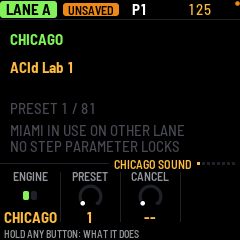
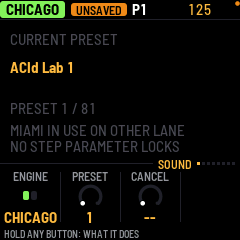
fix(ui): identify bass slots by their committed engine

diff --git a/firmware/src/app/ui.c b/firmware/src/app/ui.c
@@ -105,7 +105,24 @@ static const uint16_t PART_COL[NPARTS] = {RGB(255, 150, 40), RGB(255, 72, 64), R
                                           RGB(214, 120, 255)};
 static const char *const PART_N[NPARTS] = {"909", "808", "303A", "303B", "BREAK"};
 /* Lane labels: PART_N except BREAK → BRK (4 chars). Beats a second 5-pointer table. */
-static const char *part_s(int i) { return i == PART_BRK ? "BRK" : PART_N[i]; }
+#if X0X_BASS_PRESET_PREVIEW
+static const char *bass_display_name(int bank,int other,int voice)
+{
+    if(bank==other) return bank?(voice?"MIAMI B":"MIAMI A"):(voice?"CHICAGO B":"CHICAGO A");
+    return bank?"MIAMI":"CHICAGO";
+}
+#endif
+static const char *part_display(int part)
+{
+#if X0X_BASS_PRESET_PREVIEW
+    if(part==PART_303A || part==PART_303B) {
+        int voice=part-PART_303A;
+        return bass_display_name(engine_bass_bank(voice),engine_bass_bank(1-voice),voice);
+    }
+#endif
+    return PART_N[part];
+}
+static const char *part_s(int i) { return i == PART_BRK ? "BRK" : part_display(i); }
 
 /* overlays drawn over the main area */
 enum { O_NONE, O_LIST, O_ASK };
@@ -1358,7 +1375,7 @@ static void open_list_of_pages(void)
     if (ui.view == V_SEQ)
         put_s(put_s(list_title, PART_N[ui.part]), " SEQ");
     else
-        put_s(list_title, ui.view == V_PART ? PART_N[ui.part] : VIEW_N[ui.view]);
+        put_s(list_title, ui.view == V_PART ? part_display(ui.part) : VIEW_N[ui.view]);
     ui.list_sel = ui.list_top = 0;
     while (list_skip(ui.list_sel))
         ui.list_sel++;
@@ -3844,10 +3861,7 @@ static UI_DRAW void draw_header(void)
     }
 #endif
     else if (part_view()) {                           /* the part chip, then where we are */
-        const char *part_label=PART_N[ui.part];
-#if X0X_BASS_PRESET_PREVIEW
-        if(is_303()) part_label=bidx()?"LANE B":"LANE A";
-#endif
+        const char *part_label=part_display(ui.part);
         int32_t w = tw(&FONT_B, part_label) + 12;
         box(0, 1, w, 17, part_col());
         cv_text(6, vc(&FONT_B, 1, 17), &FONT_B, part_label, C_BLACK);
@@ -3999,7 +4013,7 @@ static UI_DRAW void draw_303(int band, int gen)
     if(ui.view==V_PART && cur_page()==0) {
         int bank=engine_bass_bank(b), preset=engine_bass_preset_index(b);
         if(!band) {
-            cv_text(10,12,&FONT_B,BENGINE_N[bank],col);
+            cv_text(10,12,&FONT_S,"CURRENT PRESET",C_DIM);
             cv_text(10,40,&FONT_B,preset<0?"SELECT PRESET":factory_preset_name(bank,preset),C_HI);
             if(preset>=0 && engine_bass_preset_edited(b)) cv_text(148,12,&FONT_S,"EDITED",C_AMB);
         } else {
@@ -5034,12 +5048,13 @@ static void knob_tag(char *t)
         put_s(put_s(t, "PARTS: "), PART_N[ui.mixsel]);
     else if (g == GR_PAT)
         put_s(put_s(put_i(put_s(t, "P"), seq.ppat[ui.part] + 1), " "), ti);
-    else if (g == GR_KIT || g == GR_SOUND)
-        put_s(put_s(put_s(t,
+    else if (g == GR_KIT || g == GR_SOUND) {
 #if X0X_BASS_PRESET_PREVIEW
-            is_303()?BENGINE_N[engine_bass_bank(bidx())]:
+        if(is_303()) put_s(t,ti);
+        else
 #endif
-            PART_N[ui.part]), " "), ti);
+        put_s(put_s(put_s(t,part_display(ui.part)), " "), ti);
+    }
     else
         put_s(t, ti);
     {   /* a section over several pages (same name): which of them, "BD (1/2)" */

diff --git a/tests/host/bass_presets_live_test.c b/tests/host/bass_presets_live_test.c
@@ -108,6 +108,9 @@ int main(int argc,char **argv)
     CHECK(X0X_BASS_PRESET_PREVIEW==1);request_apply(0,0,0);
     CHECK(bass_preset_decode(0,0,engine_bass_bank_param,expected)==0);
     CHECK(!memcmp(expected,proj.sound.v[T_303][0],32));CHECK(!engine_bass_preset_edited(0));
+    CHECK(!strcmp(part_display(PART_303A),"CHICAGO A"));CHECK(!strcmp(part_display(PART_303B),"CHICAGO B"));
+    CHECK(tw(&FONT_B,part_display(PART_303A))+12<120);
+    CHECK(!strcmp(bass_display_name(1,1,0),"MIAMI A"));CHECK(!strcmp(bass_display_name(1,1,1),"MIAMI B"));
     physical_browse(0);if(argc>1)picture(argv[1],"chicago-acid-lab-1",0);
     writes=store_writes;CHECK(project_save()==-9);CHECK(store_writes==writes);
     engine_bass_wheel_owners(1);CHECK(engine_bass_select_preset(0,0,2,&proj.sound)==0);
@@ -118,9 +121,13 @@ int main(int argc,char **argv)
 #if X0X_DEV_WOBBLE
     ui.part=PART_303B;ui.view=V_PART;build_pages();*page_of(V_PART)=0;
     pref_set(PR(R_BENGINE,0,1,0),1);CHECK(engine_bass_requested_bank(1)==1);CHECK(engine_bass_bank(1)==0);
+    CHECK(!strcmp(part_display(PART_303B),"CHICAGO B")); /* pending != committed */
     CHECK(!engine_bass_bank_available(0,1));CHECK(engine_bass_select_preset(0,1,0,&proj.sound)==-2);
     audio_block();ui_input_only();CHECK(engine_bass_bank(1)==1);CHECK(engine_nparams(T_303,1)==23);
     CHECK(bass_preset_decode(1,0,engine_bass_bank_param,expected)==0);CHECK(!memcmp(expected,proj.sound.v[T_303][1],32));
+    CHECK(!strcmp(part_display(PART_303A),"CHICAGO"));CHECK(!strcmp(part_display(PART_303B),"MIAMI"));
+    CHECK(engine_bass_select_preset(1,0,0,&proj.sound)==0);CHECK(!strcmp(part_display(PART_303B),"MIAMI"));
+    engine_bass_cancel_preset(1);audio_block();CHECK(!strcmp(part_display(PART_303B),"MIAMI"));
     physical_browse(1);if(argc>1)picture(argv[1],"miami-16th-cutz",1);
     if(argc>1)picture(argv[1],"miami-occupied",0);
     pref_set(PR(R_ENG,T_303,1,W_CARRIER_LEVEL),50);audio_block();CHECK(engine_bass_preset_edited(1));edited_pixels(1);

diff --git a/docs/proposals/bass-real-presets-20261026/README.md b/docs/proposals/bass-real-presets-20261026/README.md
@@ -6,7 +6,7 @@ Review-only. `X0X_BASS_PRESET_PREVIEW` defaults OFF. No native qualification, ta
 
 The PNGs come from the actual host UI after the actual audio engine applies complete mapped factory cells. Chicago `Acid Lab 1` and Miami `16th Cutz` retain verified existing names/data. Native approximations are not imported KORG engines or sound-equivalence claims. Chicago's 81 and Miami's 30 rows retain their mixed Factory2/heuristic provenance. No offline zero-volume workaround is applied.
 
-On SOUND, knob 1 requests a backend on the SAME selected lane, applying its first named preset. Knob 2 and PRESETS browse one real name at a time in that requested backend's bank. Current actual engine/name and lane identity remain separate. While waiting, the current sound stays visible and the lower card names the pending latest choice and reason. Knob 3 cancels it. EDITED appears beside the actual engine when its cell differs from the named preset. Parameter pages rebuild when the actual backend changes. Single-context Miami occupancy/reservations and missing builds are explicitly unavailable.
+On SOUND, knob 1 requests a backend on the SAME selected lane, applying its first named preset. Knob 2 and PRESETS browse one real name at a time in that requested backend's bank. The primary label is the actual committed engine, with a stable A/B suffix only when both slots use the same engine; internal lane/MIDI routing remains unchanged. The redundant engine heading is removed from the current-preset card. While waiting, the current sound stays visible and the lower card names the pending latest choice and reason. Knob 3 cancels it. EDITED appears beside the actual engine when its cell differs from the named preset. Parameter pages rebuild when the actual backend changes. Single-context Miami occupancy/reservations and missing builds are explicitly unavailable.
 
 ## Voice-scoped live application
 
@@ -29,9 +29,11 @@ Full engine-tagged persistence, legacy unknown-identity admission, full sound-sn
 ## Evidence
 
 - Pure mapper commit4623193: 2,835 WBL0 /3,964 WBL1 checks; independent extra245/257 endpoint/admission checks passed. All111 ROM rows/names match canonical JSON.
-- `sh tests/host/bass_presets_live_test.sh "$PWD/docs/proposals/bass-real-presets-20261026"`: 189 WBL0 /1,516 WBL1 checks, also ASan+UBSan. Actual physical fast K2/PRESETS input; bounded latest-wins and cancel; complete applied cells; actual backend metadata; Miami occupancy/reservation; save zero-write; 1,280 EDITED pixels against unclipped real font; target-lock refusal; ISR-at-each-publication-stage deferral; actual audible Miami note/legato sound ownership through pending release.
+- `sh tests/host/bass_presets_live_test.sh "$PWD/docs/proposals/bass-real-presets-20261026"`: 194 WBL0 /1,527 WBL1 checks, also ASan+UBSan. Actual physical fast K2/PRESETS input; bounded latest-wins and cancel; complete applied cells; actual backend metadata; Miami occupancy/reservation; save zero-write; 1,280 EDITED pixels against unclipped real font; target-lock refusal; ISR-at-each-publication-stage deferral; actual audible Miami note/legato sound ownership through pending release.
 - The same live test queues 64 clocks before an old NoteOn for USB/BLE/TRS, preserves its whole old sound through overlapping legato and correct note release, and admits the pending preset after its tail despite continuing clocks/CC. It also applies an idle voice during running transport, preserves subsequent notes, and checks byte-identical 16-block sounding BREAK output with/without a bass request: `f47cc48b92f16d68` in both build profiles.
 - `python3 tests/host/bass_midi_pending_native_test.py`: compiles the actual native query/producer mark/consumer-pass bodies with volatile counters, empty/pending/wrap/nonmutation checks. This is not a firmware build.
 - `sh tests/host/bass_presets_export_test.sh`: actual editor parser refuses export before hold/capture/write while preserving normal baseline export.
 
 Historical review failures are preserved in Git: b682 had accelerated preset skipping and clipped EDITED; 9e32 fixed those with independent UI review. 58fd's conservative global quiet policy then failed independent live traffic (refusal during playback and dropped accepted clock). The voice-scoped asynchronous unit supersedes that policy; earlier API-only 19/29 or quiet 86/1399 checks do not establish this new runtime's acceptance. Fresh independent review remains required.
+
+Primary engine-label follow-up also checks same Chicago slots, mixed committed backends, pending engine choice/cancel, absent/occupied Miami, and header text width. The hypothetical same-Miami label helper is tested without pretending the single-context engine permits both bindings.
